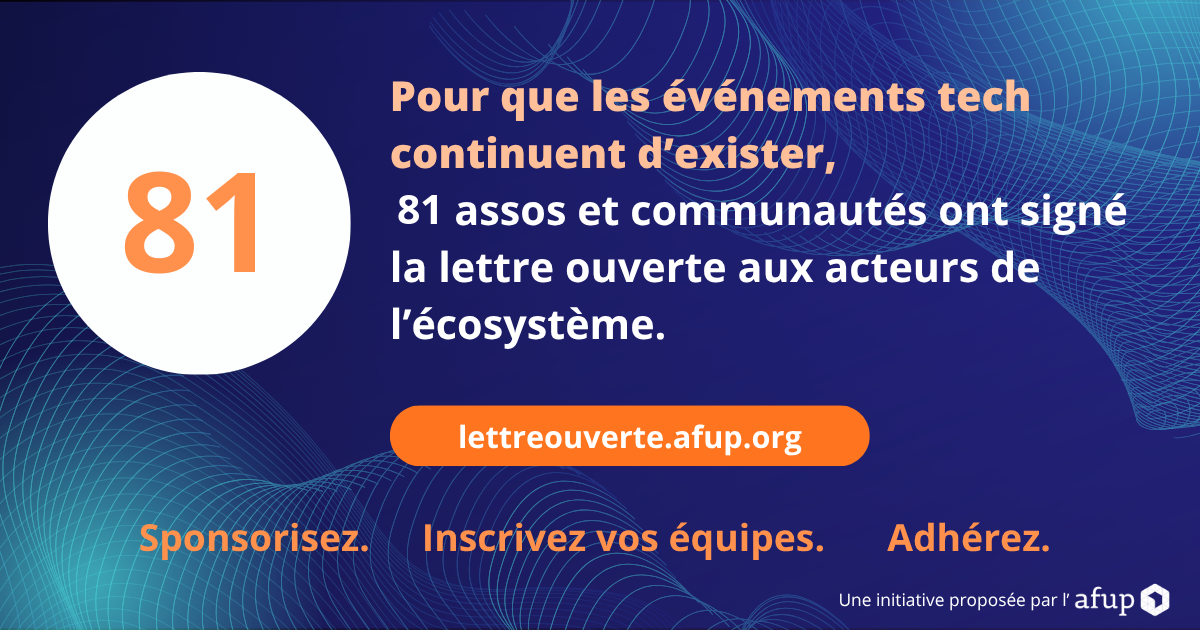
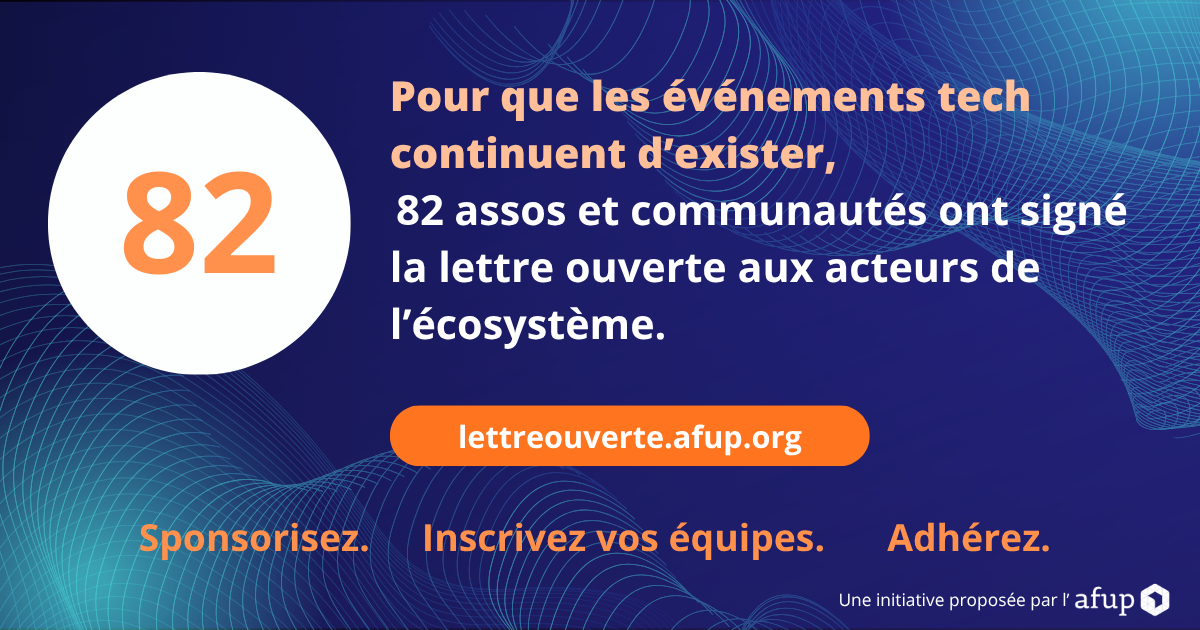
Ajoute Golang Franca
- nouveau signataire (grille, données structurées, compteur 81 -> 82)
- carte de partage régénérée avec 82 signataires
- badge « new » retiré des signataires précédents, conservé sur celui du jour

Claude-Session: https://claude.ai/code/session_014uZhiQs7v4tAWWVBioMauA

Changed region(s): [[0.1542, 0.2714, 0.2467, 0.4524], [0.3392, 0.3016, 0.37, 0.3619]]

diff --git a/index.html b/index.html
@@ -409,7 +409,7 @@ p a:not(.logo):hover,.footer__nav a:hover{color:var(--orange-hover);border-botto
   <div class="rule signatories__head">
     <div>
       <span class="eyebrow">Signataires</span>
-      <h2 id="signataires-titre"><span class="signatories__count">81</span> organisations ont déjà signé</h2>
+      <h2 id="signataires-titre"><span class="signatories__count">82</span> organisations ont déjà signé</h2>
     </div>
     <p class="signatories__invite">Votre organisation veut apparaître ici&nbsp;? Écrivez-nous à <a href="mailto:lettreouverte@afup.org">lettreouverte@afup.org</a>.</p>
   </div>
@@ -454,12 +454,13 @@ p a:not(.logo):hover,.footer__nav a:hover{color:var(--orange-hover);border-botto
     <li class="sig"><a class="sig__inner" href="https://friendsofpresta.org/" target="_blank" rel="noopener"><span class="sig__mark"><span class="sig__logo"><img src="assets/logos/friends-of-presta.png" alt="Logo de Friends of Presta" loading="lazy" decoding="async"></span></span><span class="sig__name">Friends of Presta</span></a></li>
     <li class="sig"><a class="sig__inner" href="https://www.meetup.com/fr-FR/gdg-paris/" target="_blank" rel="noopener"><span class="sig__mark"><span class="sig__logo"><img src="assets/logos/gdg-paris.png" alt="Logo du GDG Paris" loading="lazy" decoding="async"></span></span><span class="sig__name">GDG Paris</span></a></li>
     <li class="sig"><a class="sig__inner" href="https://www.generationaiconf.com/events/paris" target="_blank" rel="noopener"><span class="sig__mark"><span class="sig__logo"><img src="assets/logos/generationai-paris.png" alt="Logo de GenerationAI Paris" loading="lazy" decoding="async"></span></span><span class="sig__name">GenerationAI Paris</span></a></li>
+    <li class="sig"><a class="sig__inner" href="https://golangfranca.org/" target="_blank" rel="noopener"><span class="sig__mark"><span class="sig__logo"><img src="assets/logos/golang-franca.png" alt="Logo de Golang Franca" loading="lazy" decoding="async"><span class="sig__new" title="Nouveau signataire"><span>new</span></span></span></span><span class="sig__name">Golang Franca</span></a></li>
     <li class="sig"><a class="sig__inner" href="https://www.lagrappenumerique.fr/" target="_blank" rel="noopener"><span class="sig__mark"><span class="sig__logo"><img src="assets/logos/grappe-numerique.png" alt="Logo de Grappe Numérique" loading="lazy" decoding="async"></span></span><span class="sig__name">Grappe Numérique</span></a></li>
     <li class="sig"><a class="sig__inner" href="https://www.hacoeur.fr/" target="_blank" rel="noopener"><span class="sig__mark"><span class="sig__logo"><img src="assets/logos/hacoeur.png" alt="Logo de Hacoeur - Humain au coeur" loading="lazy" decoding="async"></span></span><span class="sig__name">Hacoeur - Humain au coeur</span></a></li>
     <li class="sig"><a class="sig__inner" href="https://humantalks.com/" target="_blank" rel="noopener"><span class="sig__mark"><span class="sig__logo"><img src="assets/logos/humantalks.png" alt="Logo de Human Talks" loading="lazy" decoding="async"></span></span><span class="sig__name">Human Talks</span></a></li>
     <li class="sig"><a class="sig__inner" href="https://www.jsandco.fr/" target="_blank" rel="noopener"><span class="sig__mark"><span class="sig__logo"><img src="assets/logos/jsandco.png" alt="Logo de JS&amp;Co" loading="lazy" decoding="async"></span></span><span class="sig__name">JS&amp;Co</span></a></li>
     <li class="sig"><a class="sig__inner" href="https://keikenchiba.org/" target="_blank" rel="noopener"><span class="sig__mark"><span class="sig__logo"><img src="assets/logos/keikenchiba.png" alt="Logo de Keikenchiba" loading="lazy" decoding="async"></span></span><span class="sig__name">Keikenchiba</span></a></li>
-    <li class="sig"><a class="sig__inner" href="https://www.lacantine-brest.net/" target="_blank" rel="noopener"><span class="sig__mark"><span class="sig__logo"><img src="assets/logos/la-cantine-brest.png" alt="Logo de La Cantine Brest" loading="lazy" decoding="async"><span class="sig__new" title="Nouveau signataire"><span>new</span></span></span></span><span class="sig__name">La Cantine Brest</span></a></li>
+    <li class="sig"><a class="sig__inner" href="https://www.lacantine-brest.net/" target="_blank" rel="noopener"><span class="sig__mark"><span class="sig__logo"><img src="assets/logos/la-cantine-brest.png" alt="Logo de La Cantine Brest" loading="lazy" decoding="async"></span></span><span class="sig__name">La Cantine Brest</span></a></li>
     <li class="sig"><a class="sig__inner" href="https://www.linkedin.com/company/la-qualisphere-grenoble/" target="_blank" rel="noopener"><span class="sig__mark"><span class="sig__logo"><img src="assets/logos/la-qualisphere.png" alt="Logo de La Qualisphere" loading="lazy" decoding="async"></span></span><span class="sig__name">La Qualisphere</span></a></li>
     <li class="sig"><a class="sig__inner" href="https://www.lavajug.org/" target="_blank" rel="noopener"><span class="sig__mark"><span class="sig__logo"><img src="assets/logos/lavajug.png" alt="Logo de LavaJUG" loading="lazy" decoding="async"></span></span><span class="sig__name">LavaJUG</span></a></li>
     <li class="sig"><a class="sig__inner" href="https://www.lebiklab.fr/" target="_blank" rel="noopener"><span class="sig__mark"><span class="sig__logo"><img src="assets/logos/le-biklab.png" alt="Logo de Le Bik’Lab" loading="lazy" decoding="async"></span></span><span class="sig__name">Le Bik’Lab</span></a></li>
@@ -470,7 +471,7 @@ p a:not(.logo):hover,.footer__nav a:hover{color:var(--orange-hover);border-botto
     <li class="sig"><a class="sig__inner" href="https://mobilemakers.fr/" target="_blank" rel="noopener"><span class="sig__mark"><span class="sig__logo"><img src="assets/logos/mobile-makers.png" alt="Logo de Mobile Makers" loading="lazy" decoding="async"></span></span><span class="sig__name">Mobile Makers</span></a></li>
     <li class="sig"><span class="sig__inner"><span class="sig__mark"><span class="sig__logo"><img src="assets/logos/mobilis-in-mobile.png" alt="Logo de Mobilis In Mobile" loading="lazy" decoding="async"></span></span><span class="sig__name">Mobilis In Mobile</span></span></li>
     <li class="sig"><a class="sig__inner" href="https://www.meetup.com/mongodb-usergroup-paris" target="_blank" rel="noopener"><span class="sig__mark"><span class="sig__logo"><img src="assets/logos/mongodb-user-group.png" alt="Logo du MongoDB User Group" loading="lazy" decoding="async"></span></span><span class="sig__name">MongoDB User Group</span></a></li>
-    <li class="sig"><a class="sig__inner" href="https://ncrafts.io/" target="_blank" rel="noopener"><span class="sig__mark"><span class="sig__logo"><img src="assets/logos/newcrafts.png" alt="Logo de NewCrafts" loading="lazy" decoding="async"><span class="sig__new" title="Nouveau signataire"><span>new</span></span></span></span><span class="sig__name">NewCrafts</span></a></li>
+    <li class="sig"><a class="sig__inner" href="https://ncrafts.io/" target="_blank" rel="noopener"><span class="sig__mark"><span class="sig__logo"><img src="assets/logos/newcrafts.png" alt="Logo de NewCrafts" loading="lazy" decoding="async"></span></span><span class="sig__name">NewCrafts</span></a></li>
     <li class="sig"><a class="sig__inner" href="https://nord-agile.org/" target="_blank" rel="noopener"><span class="sig__mark"><span class="sig__logo"><img src="assets/logos/nord-agile.png" alt="Logo de Nord Agile" loading="lazy" decoding="async"></span></span><span class="sig__name">Nord Agile</span></a></li>
     <li class="sig"><a class="sig__inner" href="https://okiwi.org/" target="_blank" rel="noopener"><span class="sig__mark"><span class="sig__logo"><img src="assets/logos/okiwi.png" alt="Logo d’Okiwi" loading="lazy" decoding="async"></span></span><span class="sig__name">Okiwi</span></a></li>
     <li class="sig"><a class="sig__inner" href="https://opengento.fr/" target="_blank" rel="noopener"><span class="sig__mark"><span class="sig__logo"><img src="assets/logos/opengento.svg" alt="Logo d’OpenGento" loading="lazy" decoding="async"></span></span><span class="sig__name">OpenGento</span></a></li>
@@ -479,7 +480,7 @@ p a:not(.logo):hover,.footer__nav a:hover{color:var(--orange-hover);border-botto
     <li class="sig"><a class="sig__inner" href="https://www.paris-web.fr/" target="_blank" rel="noopener"><span class="sig__mark"><span class="sig__logo"><img src="assets/logos/paris-web.svg" alt="Logo de Paris Web" loading="lazy" decoding="async"></span></span><span class="sig__name">Paris Web</span></a></li>
     <li class="sig"><a class="sig__inner" href="https://paristestconf.com/" target="_blank" rel="noopener"><span class="sig__mark"><span class="sig__logo"><img src="assets/logos/afqt.png" alt="Logo de ParisTestConf (AFQT)" loading="lazy" decoding="async"></span></span><span class="sig__name">ParisTestConf (AFQT)</span></a></li>
     <li class="sig"><a class="sig__inner" href="https://thephp.foundation/" target="_blank" rel="noopener"><span class="sig__mark"><span class="sig__logo"><img src="assets/logos/php-foundation.png" alt="Logo de PHP Foundation" loading="lazy" decoding="async"></span></span><span class="sig__name">PHP Foundation</span></a></li>
-    <li class="sig"><a class="sig__inner" href="https://phpmorocco.ma/" target="_blank" rel="noopener"><span class="sig__mark"><span class="sig__logo"><img src="assets/logos/php-morocco.png" alt="Logo de PHP Morocco" loading="lazy" decoding="async"><span class="sig__new" title="Nouveau signataire"><span>new</span></span></span></span><span class="sig__name">PHP Morocco</span></a></li>
+    <li class="sig"><a class="sig__inner" href="https://phpmorocco.ma/" target="_blank" rel="noopener"><span class="sig__mark"><span class="sig__logo"><img src="assets/logos/php-morocco.png" alt="Logo de PHP Morocco" loading="lazy" decoding="async"></span></span><span class="sig__name">PHP Morocco</span></a></li>
     <li class="sig"><a class="sig__inner" href="https://www.meetup.com/fr-fr/python-afpy-lyon/" target="_blank" rel="noopener"><span class="sig__mark"><span class="sig__logo"><img src="assets/logos/python-lyon.png" alt="Logo de Python Lyon" loading="lazy" decoding="async"></span></span><span class="sig__name">Python Lyon</span></a></li>
     <li class="sig"><a class="sig__inner" href="https://reactnativeconnection.io/" target="_blank" rel="noopener"><span class="sig__mark"><span class="sig__logo"><img src="assets/logos/react-native-connection.png" alt="Logo de React Native Connection" loading="lazy" decoding="async"></span></span><span class="sig__name">React Native Connection</span></a></li>
     <li class="sig"><a class="sig__inner" href="https://react.paris/" target="_blank" rel="noopener"><span class="sig__mark"><span class="sig__logo"><img src="assets/logos/react-paris.png" alt="Logo de React.paris" loading="lazy" decoding="async"></span></span><span class="sig__name">React.paris</span></a></li>
@@ -492,7 +493,7 @@ p a:not(.logo):hover,.footer__nav a:hover{color:var(--orange-hover);border-botto
     <li class="sig"><a class="sig__inner" href="https://swiftconnection.io/" target="_blank" rel="noopener"><span class="sig__mark"><span class="sig__logo"><img src="assets/logos/swift-connection.png" alt="Logo de Swift Connection" loading="lazy" decoding="async"></span></span><span class="sig__name">Swift Connection</span></a></li>
     <li class="sig"><a class="sig__inner" href="https://syliusparty.emagma.fr/" target="_blank" rel="noopener"><span class="sig__mark"><span class="sig__logo"><img src="assets/logos/sylius-party.svg" alt="Logo de Sylius Party" loading="lazy" decoding="async"></span></span><span class="sig__name">Sylius Party</span></a></li>
     <li class="sig"><a class="sig__inner" href="https://techwork.events/" target="_blank" rel="noopener"><span class="sig__mark"><span class="sig__logo"><img src="assets/logos/techwork.png" alt="Logo de Tech’Work" loading="lazy" decoding="async"></span></span><span class="sig__name">Tech’Work</span></a></li>
-    <li class="sig"><a class="sig__inner" href="https://typo3.org/association" target="_blank" rel="noopener"><span class="sig__mark"><span class="sig__logo"><img src="assets/logos/typo3-association.png" alt="Logo de la TYPO3 Association" loading="lazy" decoding="async"><span class="sig__new" title="Nouveau signataire"><span>new</span></span></span></span><span class="sig__name">TYPO3 Association</span></a></li>
+    <li class="sig"><a class="sig__inner" href="https://typo3.org/association" target="_blank" rel="noopener"><span class="sig__mark"><span class="sig__logo"><img src="assets/logos/typo3-association.png" alt="Logo de la TYPO3 Association" loading="lazy" decoding="async"></span></span><span class="sig__name">TYPO3 Association</span></a></li>
     <li class="sig"><a class="sig__inner" href="https://www.volcamp.io/" target="_blank" rel="noopener"><span class="sig__mark"><span class="sig__logo"><img src="assets/logos/volcamp.svg" alt="Logo de Volcamp" loading="lazy" decoding="async"></span></span><span class="sig__name">Volcamp</span></a></li>
     <li class="sig"><a class="sig__inner" href="https://webdays.events/" target="_blank" rel="noopener"><span class="sig__mark"><span class="sig__logo"><img src="assets/logos/web-days.png" alt="Logo de Web Days" loading="lazy" decoding="async"></span></span><span class="sig__name">Web Days</span></a></li>
     <li class="sig"><a class="sig__inner" href="https://yeeso.fr/" target="_blank" rel="noopener"><span class="sig__mark"><span class="sig__logo"><img src="assets/logos/yeeso.png" alt="Logo de Yeeso" loading="lazy" decoding="async"></span></span><span class="sig__name">Yeeso</span></a></li>
@@ -658,7 +659,7 @@ p a:not(.logo):hover,.footer__nav a:hover{color:var(--orange-hover);border-botto
       "description": "Les événements techniques français traversent une crise silencieuse. Sponsorisez, achetez des places, adhérez : trois gestes pour qu’ils continuent d’exister.",
       "inLanguage": "fr-FR",
       "datePublished": "2026-09-02T08:00:00+02:00",
-      "dateModified": "2026-11-10T14:00:00+01:00",
+      "dateModified": "2026-11-27T17:00:00+01:00",
       "isAccessibleForFree": true,
       "mainEntityOfPage": {
         "@id": "https://lettreouverte.afup.org/#webpage"
@@ -1004,6 +1005,9 @@ p a:not(.logo):hover,.footer__nav a:hover{color:var(--orange-hover);border-botto
         },
         {
           "@id": "https://lettreouverte.afup.org/#org-typo3-association"
+        },
+        {
+          "@id": "https://lettreouverte.afup.org/#org-golang-franca"
         }
       ],
       "articleSection": [
@@ -1633,6 +1637,13 @@ p a:not(.logo):hover,.footer__nav a:hover{color:var(--orange-hover);border-botto
       "name": "TYPO3 Association",
       "url": "https://typo3.org/association",
       "logo": "https://lettreouverte.afup.org/assets/logos/typo3-association.png"
+    },
+    {
+      "@type": "Organization",
+      "@id": "https://lettreouverte.afup.org/#org-golang-franca",
+      "name": "Golang Franca",
+      "url": "https://golangfranca.org/",
+      "logo": "https://lettreouverte.afup.org/assets/logos/golang-franca.png"
     }
   ]
 }</script>
